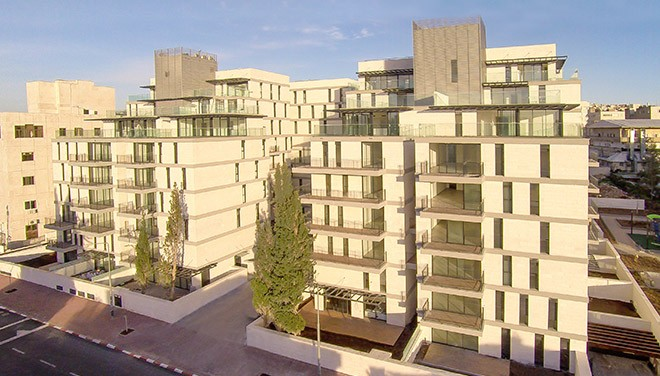
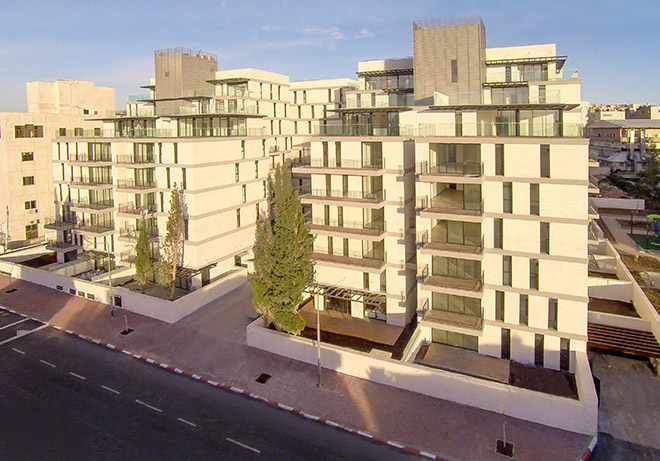
Restore Quadra hero slides from the original site without cropping.
Use the brochure’s original seven homepage images at their largest available size, uncrop the gallery assets, and match the hero frame so slides display fully.

diff --git a/quadra/assets/quadra.css b/quadra/assets/quadra.css
@@ -357,11 +357,12 @@ html[dir="rtl"] .nav-drawer.is-open {
 }
 
 .hero .frame {
-  aspect-ratio: 1024 / 600;
+  /* Match original brochure slides (~660×461 / 825×461); never crop. */
+  aspect-ratio: 825 / 461;
   width: 100%;
   border-radius: var(--radius);
   box-shadow: var(--shadow);
-  background: #171513;
+  background: #ebe7e0;
 }
 
 .hero .frame img {
@@ -369,7 +370,7 @@ html[dir="rtl"] .nav-drawer.is-open {
   height: 100%;
   object-fit: contain;
   object-position: center center;
-  background: #171513;
+  background: #ebe7e0;
 }
 
 .hero-controls {
@@ -696,17 +697,17 @@ html[dir="rtl"] .nav-drawer.is-open {
 }
 
 .gallery-layout .frame {
-  aspect-ratio: 16 / 10;
+  aspect-ratio: 660 / 461;
   width: 100%;
-  background: #171513;
+  background: #ebe7e0;
 }
 
 .gallery-layout .frame img {
   width: 100%;
   height: 100%;
-  object-fit: cover;
+  object-fit: contain;
   object-position: center center;
-  background: #171513;
+  background: #ebe7e0;
 }
 
 .thumbs {
@@ -1039,7 +1040,7 @@ html[dir="rtl"] .nav-drawer.is-open {
   }
 
   .hero .frame {
-    aspect-ratio: 1024 / 600;
+    aspect-ratio: 825 / 461;
   }
 
   .hero-controls {
@@ -1121,7 +1122,7 @@ html[dir="rtl"] .nav-drawer.is-open {
   }
 
   .hero .frame {
-    aspect-ratio: 1024 / 600;
+    aspect-ratio: 825 / 461;
   }
 
   .gallery-layout .frame,

diff --git a/quadra/apartments/index.html b/quadra/apartments/index.html
@@ -21,12 +21,12 @@
   <link rel="preconnect" href="https://fonts.googleapis.com">
   <link rel="preconnect" href="https://fonts.gstatic.com" crossorigin>
   <link rel="stylesheet" href="https://fonts.googleapis.com/css2?family=Assistant:wght@400;600;700&family=Frank+Ruhl+Libre:wght@500;700&display=swap">
-  <link rel="stylesheet" href="/quadra/assets/quadra.css?v=5">
+  <link rel="stylesheet" href="/quadra/assets/quadra.css?v=11">
 </head>
 <body data-page="apartments">
   <div id="app"></div>
   <noscript><p class="noscript">יש להפעיל JavaScript כדי לראות את מבנה האתר.</p></noscript>
-  <script src="/quadra/assets/content.js?v=10"></script>
-  <script src="/quadra/assets/quadra.js?v=10"></script>
+  <script src="/quadra/assets/content.js?v=11"></script>
+  <script src="/quadra/assets/quadra.js?v=11"></script>
 </body>
 </html>

diff --git a/quadra/location/index.html b/quadra/location/index.html
@@ -21,12 +21,12 @@
   <link rel="preconnect" href="https://fonts.googleapis.com">
   <link rel="preconnect" href="https://fonts.gstatic.com" crossorigin>
   <link rel="stylesheet" href="https://fonts.googleapis.com/css2?family=Assistant:wght@400;600;700&family=Frank+Ruhl+Libre:wght@500;700&display=swap">
-  <link rel="stylesheet" href="/quadra/assets/quadra.css?v=5">
+  <link rel="stylesheet" href="/quadra/assets/quadra.css?v=11">
 </head>
 <body data-page="location">
   <div id="app"></div>
   <noscript><p class="noscript">יש להפעיל JavaScript כדי לראות את מבנה האתר.</p></noscript>
-  <script src="/quadra/assets/content.js?v=10"></script>
-  <script src="/quadra/assets/quadra.js?v=10"></script>
+  <script src="/quadra/assets/content.js?v=11"></script>
+  <script src="/quadra/assets/quadra.js?v=11"></script>
 </body>
 </html>

diff --git a/quadra/contact/index.html b/quadra/contact/index.html
@@ -21,12 +21,12 @@
   <link rel="preconnect" href="https://fonts.googleapis.com">
   <link rel="preconnect" href="https://fonts.gstatic.com" crossorigin>
   <link rel="stylesheet" href="https://fonts.googleapis.com/css2?family=Assistant:wght@400;600;700&family=Frank+Ruhl+Libre:wght@500;700&display=swap">
-  <link rel="stylesheet" href="/quadra/assets/quadra.css?v=5">
+  <link rel="stylesheet" href="/quadra/assets/quadra.css?v=11">
 </head>
 <body data-page="contact">
   <div id="app"></div>
   <noscript><p class="noscript">יש להפעיל JavaScript כדי לראות את מבנה האתר.</p></noscript>
-  <script src="/quadra/assets/content.js?v=10"></script>
-  <script src="/quadra/assets/quadra.js?v=10"></script>
+  <script src="/quadra/assets/content.js?v=11"></script>
+  <script src="/quadra/assets/quadra.js?v=11"></script>
 </body>
 </html>

diff --git a/quadra/gallery/index.html b/quadra/gallery/index.html
@@ -21,12 +21,12 @@
   <link rel="preconnect" href="https://fonts.googleapis.com">
   <link rel="preconnect" href="https://fonts.gstatic.com" crossorigin>
   <link rel="stylesheet" href="https://fonts.googleapis.com/css2?family=Assistant:wght@400;600;700&family=Frank+Ruhl+Libre:wght@500;700&display=swap">
-  <link rel="stylesheet" href="/quadra/assets/quadra.css?v=5">
+  <link rel="stylesheet" href="/quadra/assets/quadra.css?v=11">
 </head>
 <body data-page="gallery">
   <div id="app"></div>
   <noscript><p class="noscript">יש להפעיל JavaScript כדי לראות את מבנה האתר.</p></noscript>
-  <script src="/quadra/assets/content.js?v=10"></script>
-  <script src="/quadra/assets/quadra.js?v=10"></script>
+  <script src="/quadra/assets/content.js?v=11"></script>
+  <script src="/quadra/assets/quadra.js?v=11"></script>
 </body>
 </html>

diff --git a/quadra/index.html b/quadra/index.html
@@ -21,12 +21,12 @@
   <link rel="preconnect" href="https://fonts.googleapis.com">
   <link rel="preconnect" href="https://fonts.gstatic.com" crossorigin>
   <link rel="stylesheet" href="https://fonts.googleapis.com/css2?family=Assistant:wght@400;600;700&family=Frank+Ruhl+Libre:wght@500;700&display=swap">
-  <link rel="stylesheet" href="/quadra/assets/quadra.css?v=5">
+  <link rel="stylesheet" href="/quadra/assets/quadra.css?v=11">
 </head>
 <body data-page="project">
   <div id="app"></div>
   <noscript><p class="noscript">יש להפעיל JavaScript כדי לראות את מבנה האתר.</p></noscript>
-  <script src="/quadra/assets/content.js?v=10"></script>
-  <script src="/quadra/assets/quadra.js?v=10"></script>
+  <script src="/quadra/assets/content.js?v=11"></script>
+  <script src="/quadra/assets/quadra.js?v=11"></script>
 </body>
 </html>

diff --git a/quadra/plans/index.html b/quadra/plans/index.html
@@ -21,12 +21,12 @@
   <link rel="preconnect" href="https://fonts.googleapis.com">
   <link rel="preconnect" href="https://fonts.gstatic.com" crossorigin>
   <link rel="stylesheet" href="https://fonts.googleapis.com/css2?family=Assistant:wght@400;600;700&family=Frank+Ruhl+Libre:wght@500;700&display=swap">
-  <link rel="stylesheet" href="/quadra/assets/quadra.css?v=5">
+  <link rel="stylesheet" href="/quadra/assets/quadra.css?v=11">
 </head>
 <body data-page="plans">
   <div id="app"></div>
   <noscript><p class="noscript">יש להפעיל JavaScript כדי לראות את מבנה האתר.</p></noscript>
-  <script src="/quadra/assets/content.js?v=10"></script>
-  <script src="/quadra/assets/quadra.js?v=10"></script>
+  <script src="/quadra/assets/content.js?v=11"></script>
+  <script src="/quadra/assets/quadra.js?v=11"></script>
 </body>
 </html>

diff --git a/quadra/assets/content.js b/quadra/assets/content.js
@@ -1,7 +1,7 @@
 /* Quadra — brochure content.
    Media lives under /quadra/media:
 
-   media/project/01.jpg … 08.jpg          homepage slides
+   media/project/01.jpg … 07.jpg          homepage slides (same order as quadrajerusalem)
    media/location/01.jpg                  location page
    media/apartments/01.jpg … 06.jpg       apartments page
    media/gallery/01.jpg … 07.jpg          gallery
@@ -22,7 +22,7 @@ window.QUADRA_CONTENT = {
     fr: "37, rue Mekor Chaim, Jérusalem, Israël 93465"
   },
   counts: {
-    projectSlides: 8,
+    projectSlides: 7,
     construction: 0,
     apartmentPhotos: 6,
     gallery: 7
